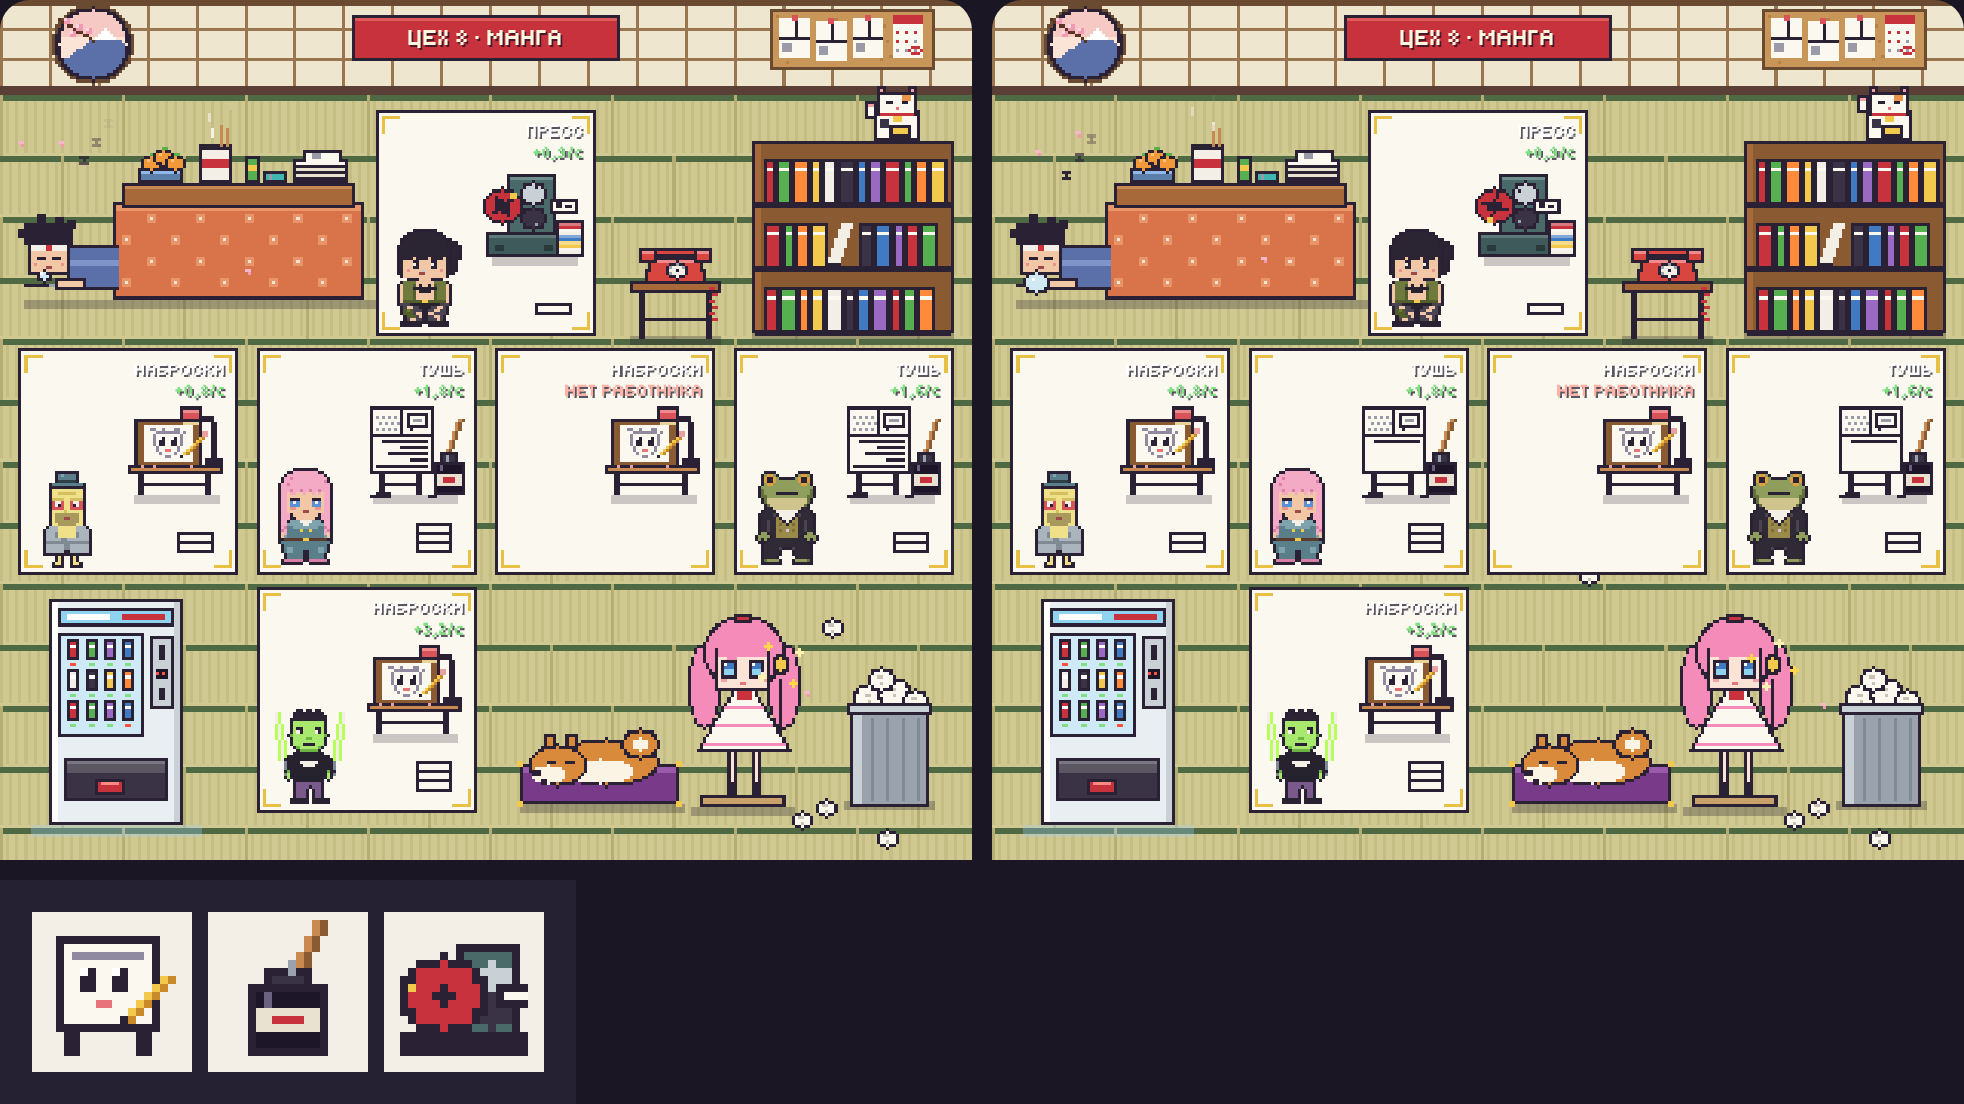
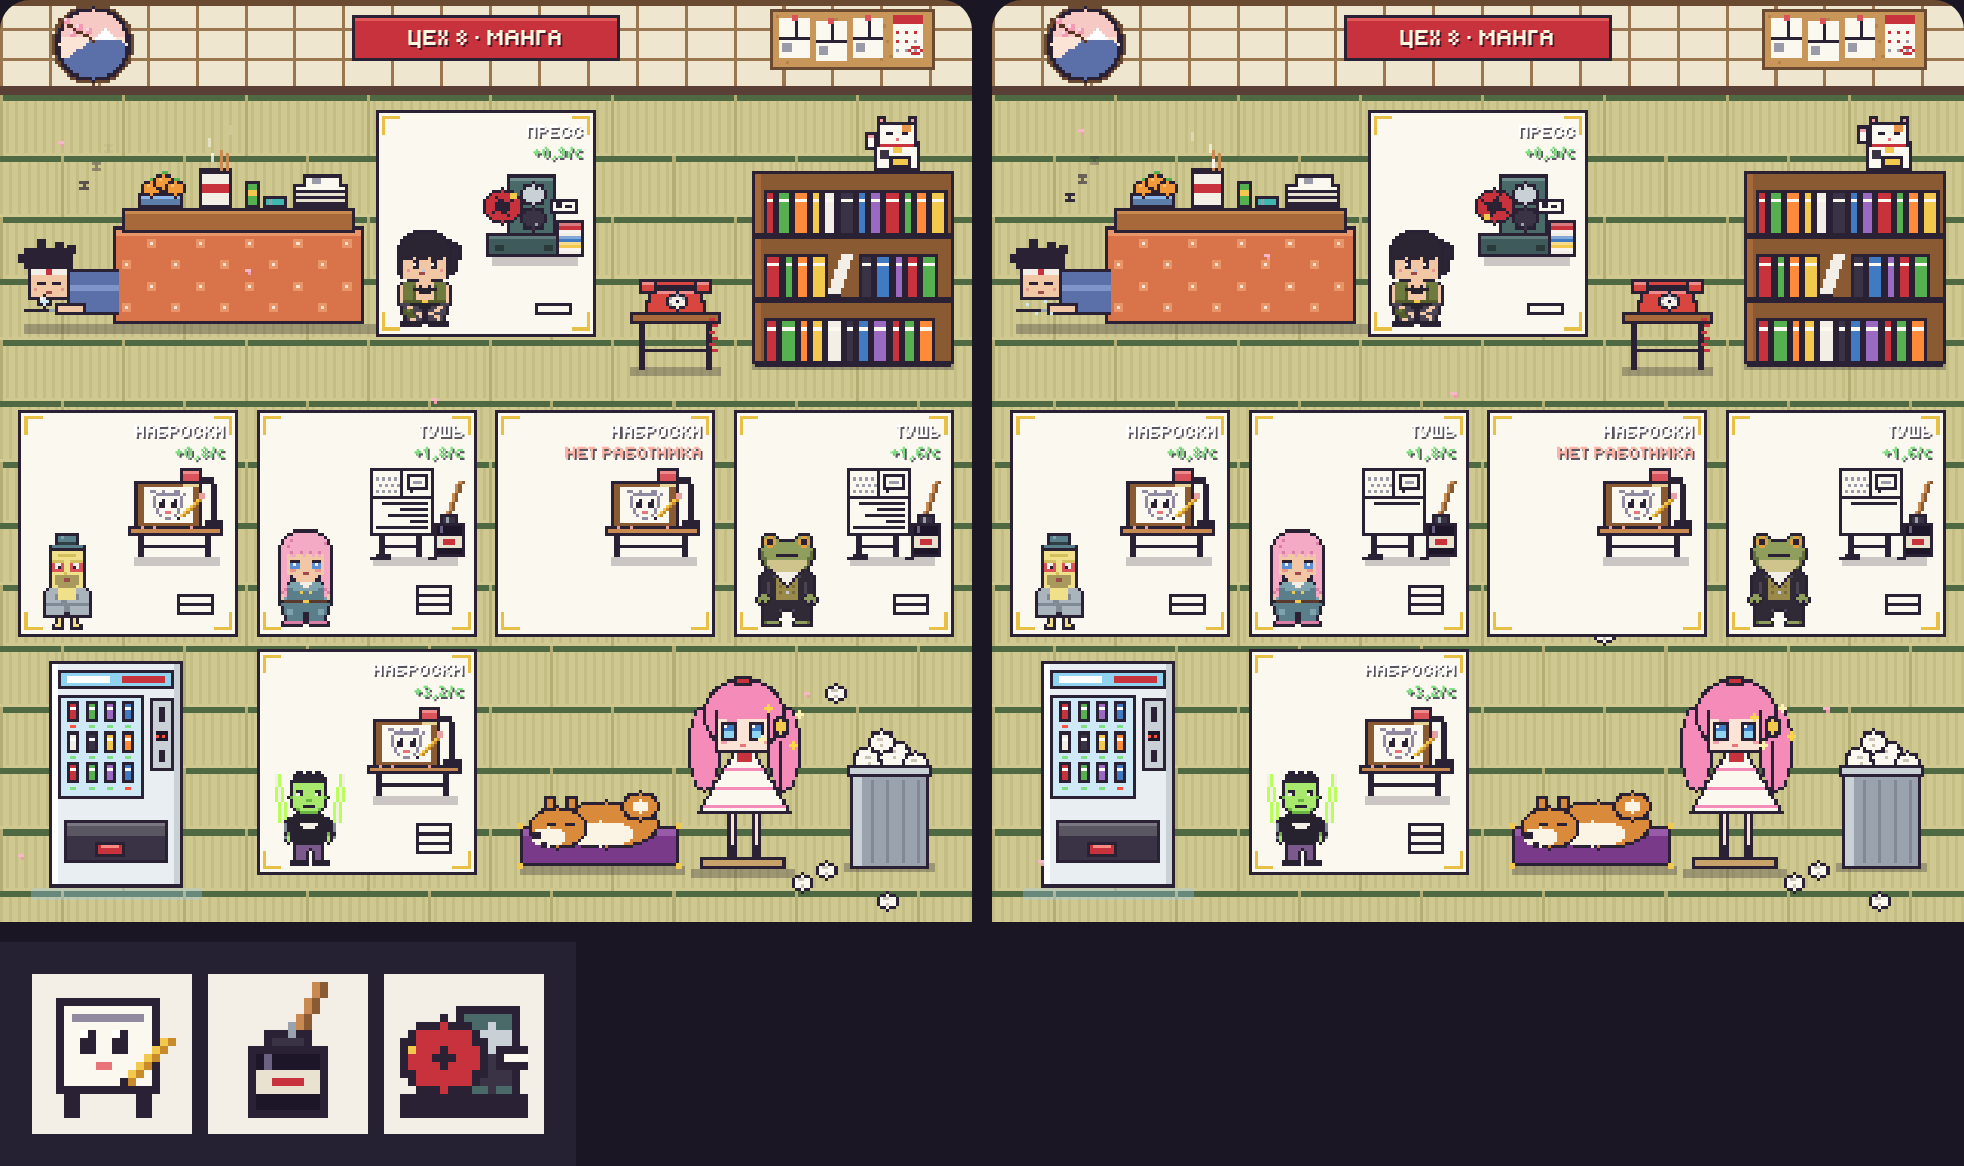
Манга: верхнее место отдельно, нижние 5 мест сдвинуты вниз с зазором
Claude-Session: https://claude.ai/code/session_0195xDgDq9wGc1coJXsfv8nn

diff --git a/drafts/workshop-8.js b/drafts/workshop-8.js
@@ -5,8 +5,9 @@
     { name: 'Манга', sign: 'ЦЕХ 8 · МАНГА', cost: 1e14, wall: '#efe6cf', mortar: '#9a7650', floor: '#cfc890', grid: '#cfc890', plate: '#fbf8f0', frame: '#2b2135', item: '#fbf8f0', board: '#c8323c', boardHi: '#e05a5a', goods: 'manga', unit: 'Манга', unit1: 'Цена тома', start: 'sketch', desc: 'x', opened: 'x' }
 
 // ===== LAYOUTS: после голубей =====
-    // a cross of manga panels: one on top between the second and third, a row of four, one below the second
-    [[1.5, 0], [0, 1], [1, 1], [2, 1], [3, 1], [1, 2]]
+    // a cross of manga panels: a row of four, one below the second; the top one sits apart over the gap between the second and third
+    // and touches nobody, so it gets no neighbour bonuses
+    [[1.5, 0], [0, 1.25], [1, 1.25], [2, 1.25], [3, 1.25], [1, 2.25]]
 
 // ===== MACH: перед belt =====
     sketch: { loc: 7, name: 'Стол набросков', short: 'НАБРОСКИ', rate: 0.9, value: 1, max: 3, desc: 'x' },
@@ -97,7 +98,7 @@
       const shadow = (x, y, w) => R(x, y, w, 3, 'rgba(30,20,40,.28)');
 
       // top left: a kotatsu with mikans, cup ramen and energy cans; the mangaka sleeps half under the quilt in a hachimaki, a snot bubble swells
-      const kx = 42, ky = 60;
+      const kx = 42, ky = 68;
       shadow(kx - 34, ky + 38, 116);
       R(kx - 5, ky + 6, 82, 32, K); R(kx - 4, ky + 7, 80, 30, '#d9734a');
       for (let i = 0; i < 10; i++) for (let j = 0; j < 4; j++) if ((i + j) % 2) { R(kx - 2 + i * 8, ky + 10 + j * 7, 3, 3, '#e8956a'); R(kx - 1 + i * 8, ky + 11 + j * 7, 1, 1, '#fbe3d6'); }
@@ -128,7 +129,7 @@
       }
 
       // top right: a shelf of tankobon with a waving maneki-neko on top, a red phone on a stool rings with the deadline
-      const sx = W - 72, sy = 46;
+      const sx = W - 72, sy = 56;
       shadow(sx, sy + 62, 66);
       R(sx, sy, 66, 63, K); R(sx + 1, sy + 1, 64, 61, '#8a5a32'); R(sx + 1, sy + 1, 2, 61, '#a8693a');
       const BC = ['#c8323c', '#f2c94c', '#3f7ac2', '#57b04f', '#f4efe6', '#9a6ac2', '#ff8a3a', '#3a3346'];
@@ -149,7 +150,7 @@
       R(mx + 5, my + 11, 7, 4, K); R(mx + 6, my + 12, 5, 2, '#f2c94c');
       R(mx - 3, my + 1 + wave * 2, 4, 6, K); R(mx - 2, my + 2 + wave * 2, 2, 4, '#fbf8f0'); R(mx - 2, my + 2 + wave * 2, 2, 1, '#f2a0a8');
       // the phone: a red rotary set, the handset jumps on its cradle while it rings, the coiled cord hangs off the stool
-      const px = W - 112, py = 80, ring = t % 4 < 1.2, sh = ring ? (Math.floor(t * 20) % 2 ? 1 : -1) : 0, lift = ring ? 2 : 0;
+      const px = W - 112, py = 90, ring = t % 4 < 1.2, sh = ring ? (Math.floor(t * 20) % 2 ? 1 : -1) : 0, lift = ring ? 2 : 0;
       shadow(px, py + 30, 30);
       R(px, py + 12, 30, 4, K); R(px + 1, py + 13, 28, 2, '#a8693a'); R(px + 3, py + 16, 2, 15, K); R(px + 25, py + 16, 2, 15, K); R(px + 4, py + 24, 22, 1, K);
       for (let k = 0; k < 6; k++) R(px + 26 + (k % 2), py + 14 + k * 2, 2, 1, '#c8323c');
@@ -161,7 +162,7 @@
       if (ring) for (const [a, b, w, h] of [[-3, -2, 1, 4], [-5, -1, 1, 2], [33, -2, 1, 4], [35, -1, 1, 2]]) R(px + a, py + b, w, h, K);
 
       // bottom left: a glowing vending machine, now and then a can drops into the tray
-      const vx = 16, vy = 196, flick = Math.floor(t * 7) % 23 === 0;
+      const vx = 16, vy = rowY(2.25) + 4, flick = Math.floor(t * 7) % 23 === 0;
       R(vx - 6, vy + 74, 56, 4, 'rgba(160,210,255,.3)');
       R(vx, vy, 44, 74, K); R(vx + 1, vy + 1, 42, 72, '#e9eef2'); R(vx + 1, vy + 1, 2, 72, '#ffffff'); R(vx + 41, vy + 1, 2, 72, '#c9d0d6');
       R(vx + 3, vy + 3, 38, 6, K); R(vx + 4, vy + 4, 36, 4, flick ? '#5b7fa8' : '#8fd3f0'); R(vx + 6, vy + 5, 14, 2, '#ffffff'); R(vx + 24, vy + 5, 14, 2, '#c8323c');
@@ -180,7 +181,7 @@
       R(vx + 6, vy + 53, 32, 4, '#5a5662'); R(vx + 6, vy + 53, 32, 1, '#7a7682');
 
       // bottom right: a shiba sleeps on a purple zabuton, a cardboard standee of the magical girl heroine, crumpled drafts fly into the bin
-      const dx = 176, dy = 236, br2 = Math.round(Math.sin(t * 2));
+      const dx = 176, dy = rowY(2.25) + 44, br2 = Math.round(Math.sin(t * 2));
       shadow(dx - 6, dy + 27, 54);
       R(dx - 6, dy + 14, 52, 13, K); R(dx - 5, dy + 15, 50, 11, '#7a3a8a'); R(dx - 5, dy + 15, 50, 2, '#9a5aaa'); for (const a of [-7, 45]) { R(dx + a, dy + 13, 2, 2, '#f2c94c'); R(dx + a, dy + 26, 2, 2, '#f2c94c'); }
       ell(dx + 22, dy + 12 - br2, 17, 9 + br2, K); ell(dx + 22, dy + 12 - br2, 16, 8 + br2, '#d98a3a'); ell(dx + 20, dy + 16, 10, 4, '#fbf3e4');
@@ -190,7 +191,7 @@
       R(dx + 2, dy + 4 + twitch, 4, 5, K); R(dx + 3, dy + 5 + twitch, 2, 3, '#d98a3a'); R(dx + 9, dy + 4, 4, 5, K); R(dx + 10, dy + 5, 2, 3, '#d98a3a');
       R(dx + 3, dy + 13, 3, 1, K); R(dx + 9, dy + 13, 3, 1, K); R(dx - 2, dy + 16, 3, 2, K); R(dx + 1, dy + 19, 2, 1, K);
       // the standee: pink twin tails, huge blue eyes, a star wand that sparkles
-      const gx0 = 226, gy0 = 200;
+      const gx0 = 226, gy0 = rowY(2.25) + 8;
       shadow(gx0, gy0 + 64, 34);
       R(gx0 + 3, gy0 + 60, 28, 4, K); R(gx0 + 4, gy0 + 61, 26, 2, '#c9a26a');
       ell(gx0 + 4, gy0 + 24, 5, 14, K); ell(gx0 + 30, gy0 + 24, 5, 14, K); ell(gx0 + 4, gy0 + 24, 4, 13, '#f58bb8'); ell(gx0 + 30, gy0 + 24, 4, 13, '#f58bb8');
@@ -204,13 +205,13 @@
       R(gx0 + 29, gy0 + 22, 1, 18, K); R(gx0 + 27, gy0 + 15, 5, 5, K); R(gx0 + 28, gy0 + 14, 3, 7, K); R(gx0 + 28, gy0 + 16, 3, 3, '#f2c94c'); R(gx0 + 29, gy0 + 15, 1, 5, '#f2c94c');
       for (let k = 0; k < 4; k++) { const a = t * 3 + k * Math.PI / 2, sx2 = gx0 + 29 + Math.round(Math.cos(a) * 7), sy2 = gy0 + 17 + Math.round(Math.sin(a) * 7); R(sx2, sy2 - 1, 1, 3, k % 2 ? '#ffd54a' : '#fff1b0'); R(sx2 - 1, sy2, 3, 1, k % 2 ? '#ffd54a' : '#fff1b0'); }
       const pb = (cx, cy, r) => { disc(cx, cy, r + 1, K); disc(cx, cy, r, '#fbf8f0'); R(cx - 1, cy - 1, 2, 1, '#c9c2b4'); R(cx, cy + 1, 1, 1, '#c9c2b4'); };
-      const tb = W - 40, tby = 222;
+      const tb = W - 40, tby = rowY(2.25) + 30;
       shadow(tb - 2, tby + 40, 30);
       R(tb, tby + 10, 26, 32, K); R(tb + 1, tby + 11, 24, 30, '#9aa3ad'); R(tb + 1, tby + 11, 3, 30, '#c9d0d6'); for (let k = 0; k < 4; k++) R(tb + 7 + k * 5, tby + 13, 1, 27, '#7f8a94');
       for (const [a, b, r] of [[6, 6, 4], [14, 4, 4], [21, 7, 3], [10, 0, 3]]) pb(tb + a, tby + b, r);
       R(tb - 1, tby + 8, 28, 4, K); R(tb, tby + 9, 26, 2, '#c9d0d6');
       for (const [a, b] of [[-8, 42], [-16, 46], [12, 52]]) pb(tb + a, tby + b, 2);
-      const f = (t * 0.45) % 1, fx = 170 + (tb + 12 - 170) * f, fy = 200 + (tby - 2 - 200) * f - Math.sin(f * Math.PI) * 26;
+      const f = (t * 0.45) % 1, fx = 170 + (tb + 12 - 170) * f, fy = tby - 22 + 20 * f - Math.sin(f * Math.PI) * 26;
       pb(Math.round(fx), Math.round(fy), 2);
 
       // sakura petals drift across the tatami
@@ -220,3 +221,4 @@
 // ===== drawWorld(): прочие правки =====
 // окна:        добавить l !== 7
 // сетка пола:  добавить l !== 7
+// colX/rowY:   округлять (c => OX + Math.round(c * 78), r => 36 + Math.round(r * 78)), иначе дробные ряды манги рисуются между пикселями

diff --git a/docs/workshops.md b/docs/workshops.md
@@ -99,7 +99,7 @@
 |---|---|---|---|---|
 | 6: пицца | 20B | 4: пара столбиком слева сверху, под ней пара, сдвинутая вправо на 0,9 места; соседи цепочкой 1–2–3–4 | Тестомес (2), Стол начинки (1), Дровяная печь (1) | «Обед»: пока работает печь, все сотрудники завода +10% силы |
 | 7: голуби | 1,5T | 5 крестом 3×3 («голубь с раскрытыми крыльями»), центр касается всех | Кормушка (2), Полоса препятствий (2), Почтовая голубятня (1) | «Голубиная почта»: каждый работающий станок цеха +15% к частоте посылок |
-| 8: японская манга | 100T | 6 крестом: ряд из 4, одно место над стыком 2-го и 3-го, одно под 2-м | Стол набросков (3), Тушевальня (2), Печатный пресс (1) | «Онгоинг»: цена +10% за каждую смену подряд, когда цех работал; смена простоя сбрасывает |
+| 8: японская манга | 100T | 6: ряд из 4 и одно место под 2-м (соседи); верхнее место над стыком 2-го и 3-го стоит отдельно с зазором, ни с кем не соседствует | Стол набросков (3), Тушевальня (2), Печатный пресс (1) | «Онгоинг»: цена +10% за каждую смену подряд, когда цех работал; смена простоя сбрасывает |
 | 9: юмологическое оружие | 8Qa | не выбрано | Пищалочный станок (резиновые курицы), Тортомёт, Конфетти-гаубица | «Чёрный юмор»: каждая карта с минусом даёт цеху +25% к цене |
 | 10: калибровка туалетов и аэрогрилей | 500Qa | цех разделён перегородкой: слева унитазы, справа аэрогрили | Стенд смыва, Калибратор бачка, Термощуп, Калибратор аэрогриля | «Это одно и то же»: унитаз напротив аэрогриля через перегородку, у обоих сила ×2 |
 
